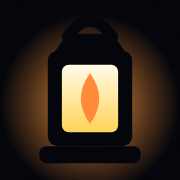
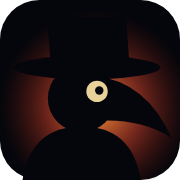
Favicona s maskou morového lekára, README so snímkami
Claude-Session: https://claude.ai/code/session_01Rh6E1MXbNhhRiwvBzFcm3J

diff --git a/README.md b/README.md
@@ -1,82 +1,76 @@
-# Lumen
+# Miasma
 
-A silhouette platformer for the browser about a little girl with a lantern in a world that has gone dark.
-Light is everything: it shows the way, keeps the shades at bay and makes bridges of light solid.
-But the oil in the lantern is slowly running out.
+A dark silhouette platformer for adults. The plague has taken the city. You are the last plague doctor, and you carry the last fire.
 
-**▶ Play online: https://darangonaut.github.io/lumen/**
+**▶ Play online: https://darangonaut.github.io/miasma/**
 
-![Lumen title screen](docs/screenshots/title.png)
+![Miasma title screen](docs/screenshots/title.png)
 
-## Seven worlds
+Miasma is the grim older sibling of [Lumen](https://github.com/darangonaut/lumen). It runs on the same engine but has a new hero, a new world and much less mercy:
 
-24 levels in six worlds, each with its own mechanic, plus a bonus seventh world unlocked after the finale.
+- **One touch kills.** Wraiths, the infected and iron spikes give no second chance.
+- **Fair warning.** Before a wraith strikes, it freezes and its eyes turn red. That is your moment.
+- **The torch burns fast.** Pitch runs out quickly, embers are rare and shrines are far apart. In total darkness you last only seconds.
+- **Enemies hunt.** The infected see your fire and come for you. You can outrun them, jump on their heads, throw a spark or flare the torch and burn them.
 
-| World                 | What awaits you                                   |
-| --------------------- | ------------------------------------------------- |
-| Misty Forest          | bridges of light, the first shades                |
-| Flooded Caves         | icy water, crumbling stones, moths                |
-| Marshes               | glowing mushrooms that launch you high            |
-| Frozen Peaks          | slippery ice and icicles that break off           |
-| Forgotten Tower       | moving platforms, chained with timed jumps        |
-| Heart of Darkness     | great shades that take three hits, and the finale |
-| Stormy Peak _(bonus)_ | wind gusts, shelter behind rocks, lightning       |
+## Four worlds
 
-|     ![Misty Forest](docs/screenshots/forest.png)      |      ![Flooded Caves](docs/screenshots/caves.png)      |
-| :---------------------------------------------------: | :----------------------------------------------------: |
-|         Misty Forest — a lamp is a checkpoint         | Flooded Caves — a shade waits at the edge of the light |
-|        ![Marshes](docs/screenshots/swamp.png)         |       ![Frozen Peaks](docs/screenshots/ice.png)        |
-|   Marshes — reeds, dead trees and will-o'-the-wisps   |     Frozen Peaks — icicles hang over slippery ice      |
-|    ![Forgotten Tower](docs/screenshots/tower.png)     |    ![Heart of Darkness](docs/screenshots/abyss.png)    |
-| Forgotten Tower — arches, chains and moving platforms |     Heart of Darkness — the last and darkest world     |
-|      ![Stormy Peak](docs/screenshots/storm.png)       |   ![Flaring the lantern](docs/screenshots/flare.png)   |
-|        Stormy Peak — rain, gusts and lightning        |       Flaring the lantern burns the shades away        |
+|     | World                  | What awaits you                                                 |
+| --- | ---------------------- | --------------------------------------------------------------- |
+| 1   | **Quarantine Quarter** | rain, a blood moon, rooftops, rotten planks, the first infected |
+| 2   | **Catacombs**          | foul sewage, slimy stones, falling masonry, swarms of flies     |
+| 3   | **Plague Pits**        | an open cemetery, wind in gusts, lightning, great wraiths       |
+| 4   | **The Cathedral**      | hanging platforms, the bell tower, the crypt and the final pyre |
+
+Each world has 4 levels, 16 in total. At the end of every path you light a pyre, because fire purifies.
+
+<table>
+<tr>
+<td><img src="docs/screenshots/quarter.png" alt="Quarantine Quarter"><br><sub>Quarantine Quarter: rain and a blood moon over the plague city</sub></td>
+<td><img src="docs/screenshots/wraiths.png" alt="Plague wraiths"><br><sub>A flared torch burns everything close, but eats pitch quickly</sub></td>
+</tr>
+<tr>
+<td><img src="docs/screenshots/catacombs.png" alt="Catacombs"><br><sub>Catacombs: walls of skulls and foul sewage</sub></td>
+<td><img src="docs/screenshots/pits.png" alt="Plague Pits"><br><sub>Plague Pits: gravestones, dead trees and a sickly moon</sub></td>
+</tr>
+<tr>
+<td colspan="2"><img src="docs/screenshots/cathedral.png" alt="The Cathedral"><br><sub>The Cathedral: stained glass faintly glowing in the dark</sub></td>
+</tr>
+</table>
 
 ## How to play
 
-- **Oil** in your lantern slowly burns away. **Fireflies** refill it. When it runs out, the darkness takes you.
-- **Bridges of light** only exist in the light. Where your lantern doesn't reach, you can't step.
-- **Flaring** the lantern makes the light bigger, reveals distant platforms and burns shades — but it uses a lot of oil.
-- **Shades** circle at the edge of the light and wait for you to falter. Their touch steals oil.
-  Defeat them by **jumping on their heads**, throwing a **spark** (costs a little oil) or flaring the lantern.
-- **Moths** chase the light and drink oil from your lantern.
-- **Lamps** on posts are checkpoints and refill your oil. Next to a lit lamp you are safe from shades.
-- Light the **campfire** at the end of every level. Those who look around will find hidden **crystals**.
-- On Stormy Peak the **wind** blows in gusts: it pushes you in mid-air, but it can't move you while you stand still.
-  Wait behind a rock, and jump when the wind dies down.
+| Action                       | Keyboard         | Touch    |
+| ---------------------------- | ---------------- | -------- |
+| Walk                         | ← → / A D        | ◀ ▶      |
+| Jump (hold to float further) | Space / ↑ / W    | ⤒        |
+| Throw a spark                | C / F            | ✸        |
+| Flare the torch              | Shift / X (hold) | ✦ (hold) |
+| Pause                        | Esc / P          | ❚❚       |
 
-## Controls
+- **Embers** keep the torch burning. **Relics** are hidden secrets.
+- **Shrines** are checkpoints. Light the candle to save your progress and refill the torch.
+- Jump on enemies' heads, throw sparks or flare the torch. A great wraith takes three hits.
+- On the cemetery, jump when the wind dies down. Standing still, it can't move you, and behind a gravestone you are sheltered.
 
-| Action                     | Keyboard      | Touch |
-| -------------------------- | ------------- | ----- |
-| Walk                       | ← → / A D     | ◀ ▶   |
-| Jump (hold to jump higher) | Space / ↑ / W | ⤒     |
-| Drop through a ledge       | ↓ / S         |       |
-| Throw a spark              | C / F         | ✸     |
-| Flare the lantern          | Shift / X     | ✦     |
-| Pause                      | Esc / P       | ❚❚    |
+## Languages and mobile
 
-The game is available in **English**, **Slovak** and **Czech**, and works on phones held sideways.
+English (default), Slovak and Czech; switch on the title screen. The game works in a phone browser turned sideways, with touch controls.
 
-<p align="center"><img src="docs/screenshots/mobile.png" alt="Lumen on a phone with touch controls" width="640"></p>
+<p align="center"><img src="docs/screenshots/mobile.png" alt="Miasma on a phone with touch controls" width="640"></p>
 
 ## Development
 
-Built with TypeScript, Vite and PixiJS 8. All graphics are vector silhouettes drawn in code
-(`src/render/vector.ts`): a black foreground against a glowing sky, where only light has colour.
-Sound is synthesized with the Web Audio API — the game has no image or audio files.
-
-- `src/game/` — pure game logic in TypeScript, with no PixiJS or DOM (enforced by ESLint).
-- `src/game/levels.ts` — levels as ASCII maps; the legend is in `src/game/level.ts`.
-- `src/render/` — rendering: terrain, darkness with light cut-outs, parallax backgrounds, particles.
-- `src/ui/` — title scene and translations (`i18n.ts`).
-- `tests/` — logic tests and a bot that plays every level to prove it can be completed.
+TypeScript, Vite and PixiJS 8. All graphics are vector shapes drawn in code, and all music and sound effects are synthesized with the Web Audio API, so there are no image or audio files.
 
 ```bash
 npm install
-npm run dev          # development server
-npm test             # logic tests and level completion bot
-npm run deploy:pages # deploy to GitHub Pages
+npm run dev          # local server
+npm test             # tests, including a bot that proves every level can be finished
+npm run deploy:pages # build and publish to GitHub Pages
 ```
 
-Debugging: `?debug&level=N` starts directly at level N (1–28).
+- `src/game/` holds pure game logic (no PixiJS or DOM).
+- Levels are ASCII maps generated by `scripts/build_levels.py`. The legend is in `src/game/level.ts`.
+- `src/render/` holds the renderer, the vector art and the plague doctor.
+- `src/audio/` holds sound effects and music (organ chorale, viol and a tolling bell).

diff --git a/CLAUDE.md b/CLAUDE.md
@@ -1,10 +1,14 @@
-# Lumen
+# Miasma
+
+Temná plošinovka pre dospelých (morový lekár s fakľou), postavená na engine Lumenu (`~/vyvoj/lumen`).
 
 - `src/game/` je čistá logika bez PixiJS a DOM (vynútené ESLintom), testy sú vo `tests/`.
-- Levely sú ASCII mapy v `src/game/levels.ts`; legenda znakov je v `src/game/level.ts`.
-  Test `tests/levels.test.ts` overuje botom, že sa každý level dá prejsť.
-- Grafika je vektorová v siluetovom štýle a kreslí sa v kóde (`src/render/vector.ts`: Canvas 2D
-  textúry vo vysokom rozlíšení, terén ako PixiJS `Graphics`), žiadne obrázky.
+- Levely generuje `scripts/build_levels.py` (zapíše `src/game/levels.ts`, potom `npx prettier --write src/game/levels.ts`);
+  legenda znakov je v `src/game/level.ts`. Test `tests/levels.test.ts` overuje botom, že sa každý level dá prejsť.
+- Obťažnosť: smrť na jeden zásah, prízrak pred výpadom varuje (`windup`), nakazení (`g`) chodia po zemi.
+  V kóde ostali názvy z Lumenu: olej = smola fakle, svetluška = uhlík, kryštál = relikvia, lampa = kaplnka,
+  vatra = hranica, tieň = prízrak, mora = roj múch, cencúľ = padajúce murivo, huba = plachta.
+- Grafika je vektorová v siluetovom štýle a kreslí sa v kóde (`src/render/vector.ts`, postava `src/render/doctor.ts`).
 - Texty rozhrania len cez `t()` z `src/ui/i18n.ts` (angličtina — predvolená a základ kľúčov, slovenčina, čeština).
 - Myslieť na mobil: dotykové tlačidlá, telefón na šírku, `env(safe-area-inset-*)`.
 - Overenie: `npm run typecheck && npm run lint && npm test`.
